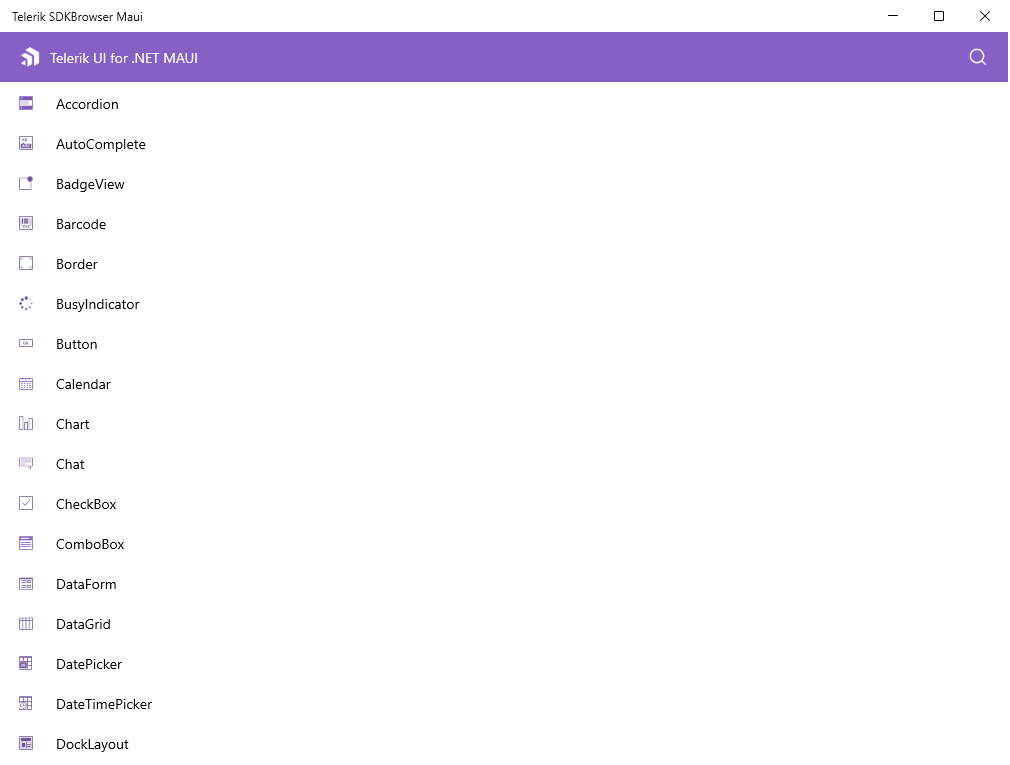
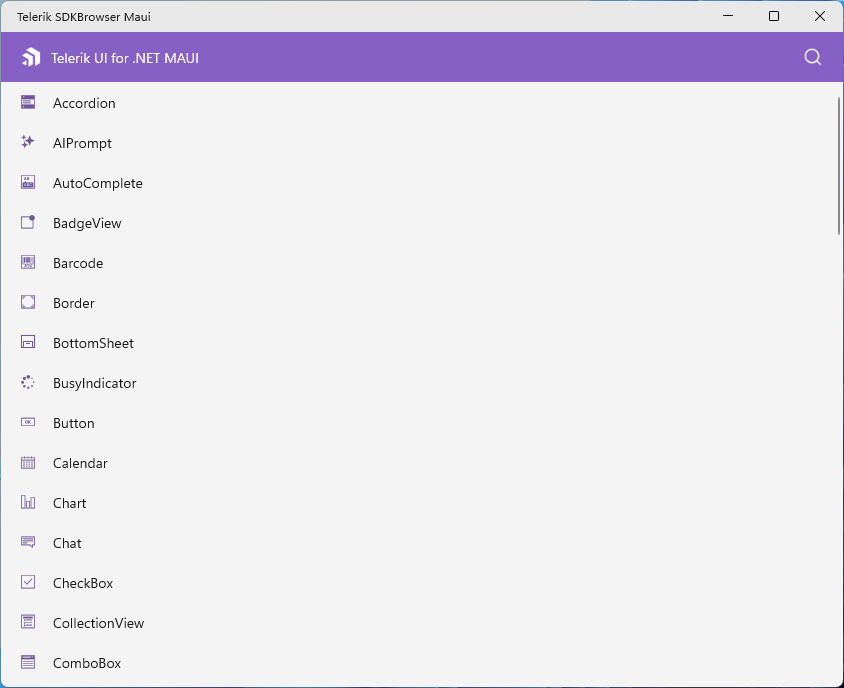
Update demos and get started

diff --git a/demos-and-sample-apps/overview.md b/demos-and-sample-apps/overview.md
@@ -18,46 +18,36 @@ The Telerik UI for .NET MAUI library offers an extensive set of fully featured e
 
 The following demo apps deliver a rich collection of .NET MAUI examples:
 
-* [Controls Samples App]({%slug controls-samples-app%})
-* [Progress Agentic RAG and Telerik UI for .NET MAUI controls]({%slug maui-parag-demo-app%})
-* [SDKBrowser App]({%slug sdkbrowser-app%})
-* [Crypto Tracker App]({%slug maui-crypto-app%})
+<article-card-container>
+	<article-card
+		href="/demos-and-sample-apps/controls-showcase-app"
+		src="../images/samples-apps.png"
+		title="Controls Samples App"
+		subTitle="Showcase Demo App"
+		description="The Telerik UI for .NET MAUI Controls Samples is a highly polished application offering many scenario-specific use cases designed to show off a subset of features for each component.">
+	</article-card>
+	<article-card
+		href="/demos-and-sample-apps/parag-demo-maui-ai"
+		src="images/parag-demo-maui-ai-mobile.png"
+		title="Progress Agentic RAG Demo App"
+		subTitle=".NET MAUI Progress Agentic RAG Demo App"
+		description="The Telerik UI for .NET MAUI Progress Agentic RAG Demo App uses the Progress Agentic RAG service to demonstrate how to integrate AI capabilities into your .NET MAUI applications.">
+	</article-card>
+	<article-card
+		href="/demos-and-sample-apps/sdkbrowser-app"
+		src="images/sdk-browser-app.png"
+		title="SDKBrowser App Examples"
+		subTitle=".NET MAUI SDKBrowser Demo Application"
+		description="The SDKBrowser is a set of .NET MAUI samples in C# and XAML that explain how to use the features of a control.">
+	</article-card>
+	<article-card
+		href="/demos-and-sample-apps/crypto-app"
+		src="../images/crypto-app.png"
+		title="Crypto Tracker App Demo"
+		subTitle=".NET MAUI Crypto Tracker App Demo"
+		description="Crypto Tracker demo is a real-case crypto application that shows changes in cryptocurrency prices, offering practical .NET MAUI app examples built with the Telerik UI for .NET MAUI controls.">
+	</article-card>
+</article-card-container>
 
 > Telerik UI for .NET MAUI version 12.0.0 adds support for .NET 10.0. You can easily switch the .NET version to .NET 9.0 or .NET 10 to build the apps. 
 > Inside the Examples folder of the installation/.zip file there are `.ps1` files - `SwitchToNet9.ps1` and `SwitchToNet10.ps1`. You can use them to switch the .NET version you use to build the .NET MAUI sample apps.
-
-## .NET MAUI Controls Samples App
-
-The Telerik UI for .NET MAUI Controls Samples is a highly polished application offering many scenario-specific use cases designed to show off a subset of features for each component. The app provides various .NET MAUI examples for many of the 60+ .NET MAUI controls included in the library.
-
-![Telerik UI for .NET MAUI Sample App WinU](images/controlssamples-winui.png)
-
-For more information on it, refer to [Controls Samples App]({%slug controls-samples-app%}).
-
-## .NET MAUI Progress Agentic RAG Demo App
-
-The Telerik UI for .NET MAUI Progress Agentic RAG Demo App uses the [Progress Agentic RAG](https://www.progress.com/agentic-rag) service to demonstrate how to integrate AI capabilities into your .NET MAUI applications. 
-
-The demo app showcases the AI-Powered search capabilities of the Progress Agentic RAG service, allowing users to interact with the AI assistant and retrieve relevant information based on their queries. 
-
-The app provides a practical example of how to leverage AI in .NET MAUI applications using the Telerik UI for .NET MAUI controls for the user interface and the Progress Agentic RAG service for the backend.
-
-![Telerik UI for .NET MAUI Progress Agentic RAG](images/parag-demo-maui-ai.png)
-
-For more information on it, refer to [.NET MAUI Progress Agentic RAG Demo App]({%slug maui-parag-demo-app%}).
-
-## .NET MAUI SDKBrowser App Examples
-
-The SDKBrowser is a set of .NET MAUI samples in C# and XAML that explain how to use the features of a control. Contrary to the Controls Samples application, the SDKBrowser shows the components in their pure form without adding extra styling and polishing. It's the go-to source for "how do I use X in Y control". Most of the code snippets available in the documentation are directly generated from the examples in the SDKBrowser (you can see special comments in the code for this).
-
-![.NET MAUI examples and controls samples](images/sdk-mobile.png)
-
-For more information on it, refer to [SDKBrowser App Examples]({%slug sdkbrowser-app%}).
-
-## .NET MAUI Crypto Tracker App Demo
-
-Crypto Tracker demo is a real-case crypto application that shows changes in cryptocurrency prices, offering practical .NET MAUI app examples built with the Telerik UI for .NET MAUI controls. In this demo, you can see in action many of the .NET MAUI controls in the library, including the CollectionView, Charts and TabView.
-
-![Telerik UI for .NET MAUI Crypto Tracker App Demo](../images/crypto-app.png)
-
-For more information on it, refer to [Crypto Tracker App Demo]({%slug maui-crypto-app%}).

diff --git a/get-started/quickstart.md b/get-started/quickstart.md
@@ -1,5 +1,5 @@
 ---
-title: Quick Start
+title: First Steps
 page_title: Telerik UI for .NET MAUI Quick Start
 description: "Get started with Telerik UI for .NET MAUI by following the essential steps to set up your license, create a project, and add your first control."
 tags: maui, dotnet maui, microsoft maui, telerik maui, nuget, ui for .net maui, macos, install, quick
@@ -9,7 +9,7 @@ previous_url: /maui-getting-started, /get-started/first-steps, /installation/win
 position: 1
 ---
 
-# Quick Start with Telerik UI for .NET MAUI
+# First Steps with Telerik UI for .NET MAUI
 
 This guide walks you through the essential steps to get Telerik UI for .NET MAUI up and running in your app.
 

diff --git a/demos-and-sample-apps/controls-showcase-app.md b/demos-and-sample-apps/controls-showcase-app.md
@@ -9,7 +9,7 @@ position: 1
 
 # Controls Samples Application
 
-The **Telerik UI for .NET MAUI Controls Samples** application provides many scenario-specific use cases designed to show off a subset of features for each component.
+The Telerik UI for .NET MAUI Controls Samples is a highly polished application offering many scenario-specific use cases designed to show off a subset of features for each component. The app provides various .NET MAUI examples for many of the 60+ .NET MAUI controls included in the library.
 
 You can access the Controls Samples application in the following ways:
 

diff --git a/demos-and-sample-apps/crypto-app.md b/demos-and-sample-apps/crypto-app.md
@@ -9,7 +9,7 @@ position: 3
 
 # Crypto Tracker Application
 
-Crypto Tracker demo is a real-case crypto application that shows changes in cryptocurrency prices, built with the Telerik UI for .NET MAUI controls.
+Crypto Tracker demo is a real-case crypto application that shows changes in cryptocurrency prices, built with the Telerik UI for .NET MAUI controls. In this demo, you can see in action many of the .NET MAUI controls in the library, including the CollectionView, Charts and TabView.
 
 You can start using the Crypto Tracker application in the following ways:
 

diff --git a/demos-and-sample-apps/parag-demo-maui-ai.md b/demos-and-sample-apps/parag-demo-maui-ai.md
@@ -12,6 +12,8 @@ tag: new
 
 The **Telerik UI for .NET MAUI Progress Agentic RAG Demo App** is a comprehensive demo application showcasing the powerful integration between [Progress Agentic RAG AI-powered search capabilities](https://www.progress.com/agentic-rag) and Telerik UI for .NET MAUI controls. This application demonstrates how to build intelligent, data-driven cross-platform mobile and desktop interfaces that combine enterprise-grade AI retrieval with beautiful, functional user interfaces.
 
+The app provides a practical example of how to leverage AI in .NET MAUI applications using the Telerik UI for .NET MAUI controls for the user interface and the Progress Agentic RAG service for the backend.
+
 Desktop look of the .NET MAUI Progress Agentic RAG Demo App:
 
 ![Telerik UI for .NET MAUI Progress Agentic RAG](images/parag-demo-maui-ai.png)

diff --git a/demos-and-sample-apps/sdkbrowser-app.md b/demos-and-sample-apps/sdkbrowser-app.md
@@ -10,7 +10,7 @@ position: 2
 
 # SDKBrowser Application
 
-The Telerik UI for .NET MAUI SDKBrowser is a set of examples that explain how to use the features of a control. The SDKBrowser shows the components in their pure form without adding extra styling and polishing. It's the go-to source for "how do I use X in Y control". Most of the code snippets available in the documentation are directly generated from the examples in the SDKBrowser (you can see special comments in the code for this).
+The Telerik UI for .NET MAUI SDKBrowser is a set of .NET MAUI samples in C# and XAML that explain how to use the features of a control. The SDKBrowser shows the components in their pure form without adding extra styling and polishing. It's the go-to source for "how do I use X in Y control". Most of the code snippets available in the documentation are directly generated from the examples in the SDKBrowser (you can see special comments in the code for this).
 
 You can access the SDKBrowser application in the following ways:
 